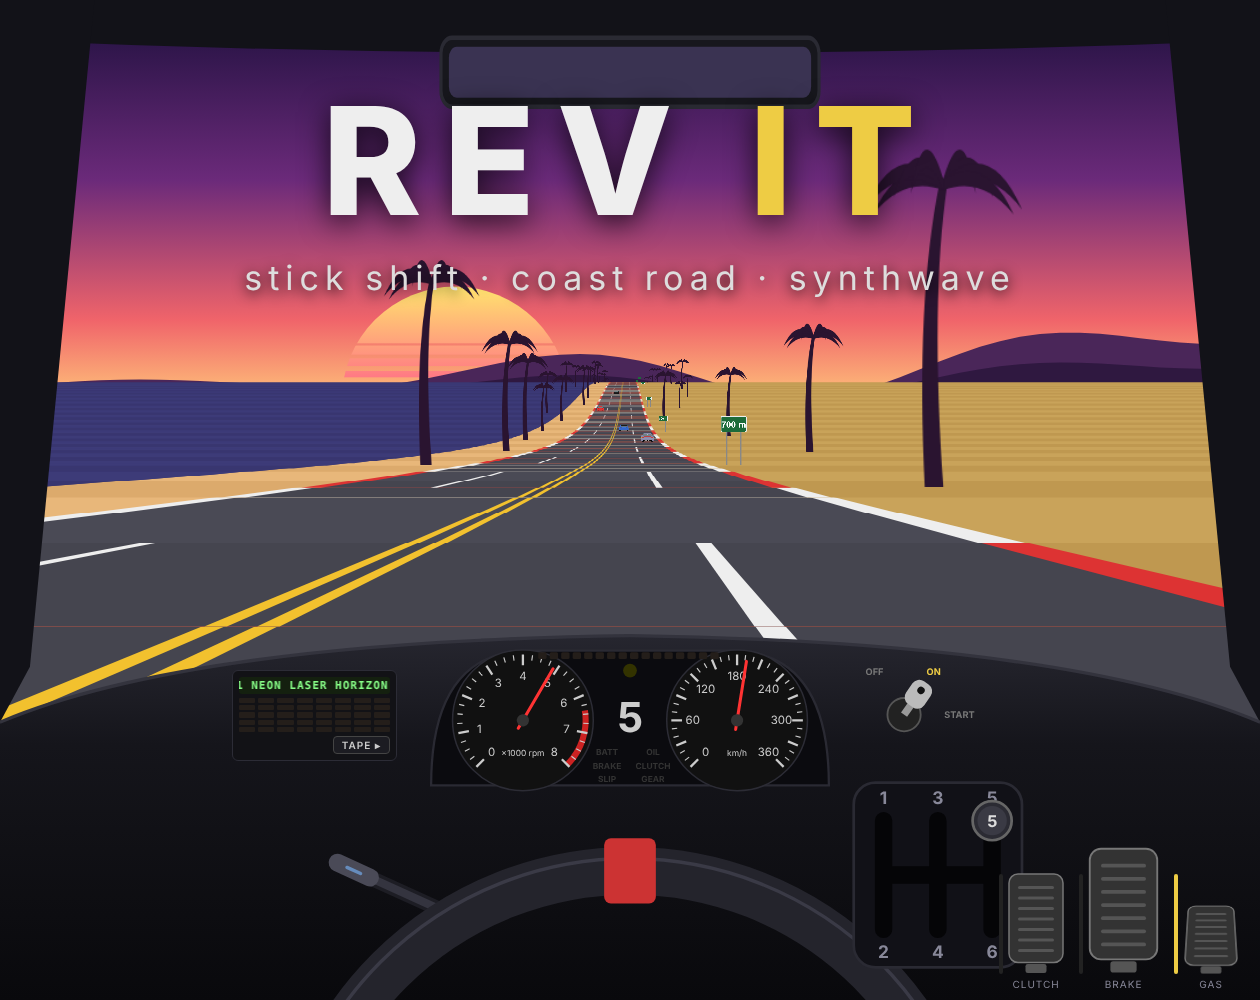
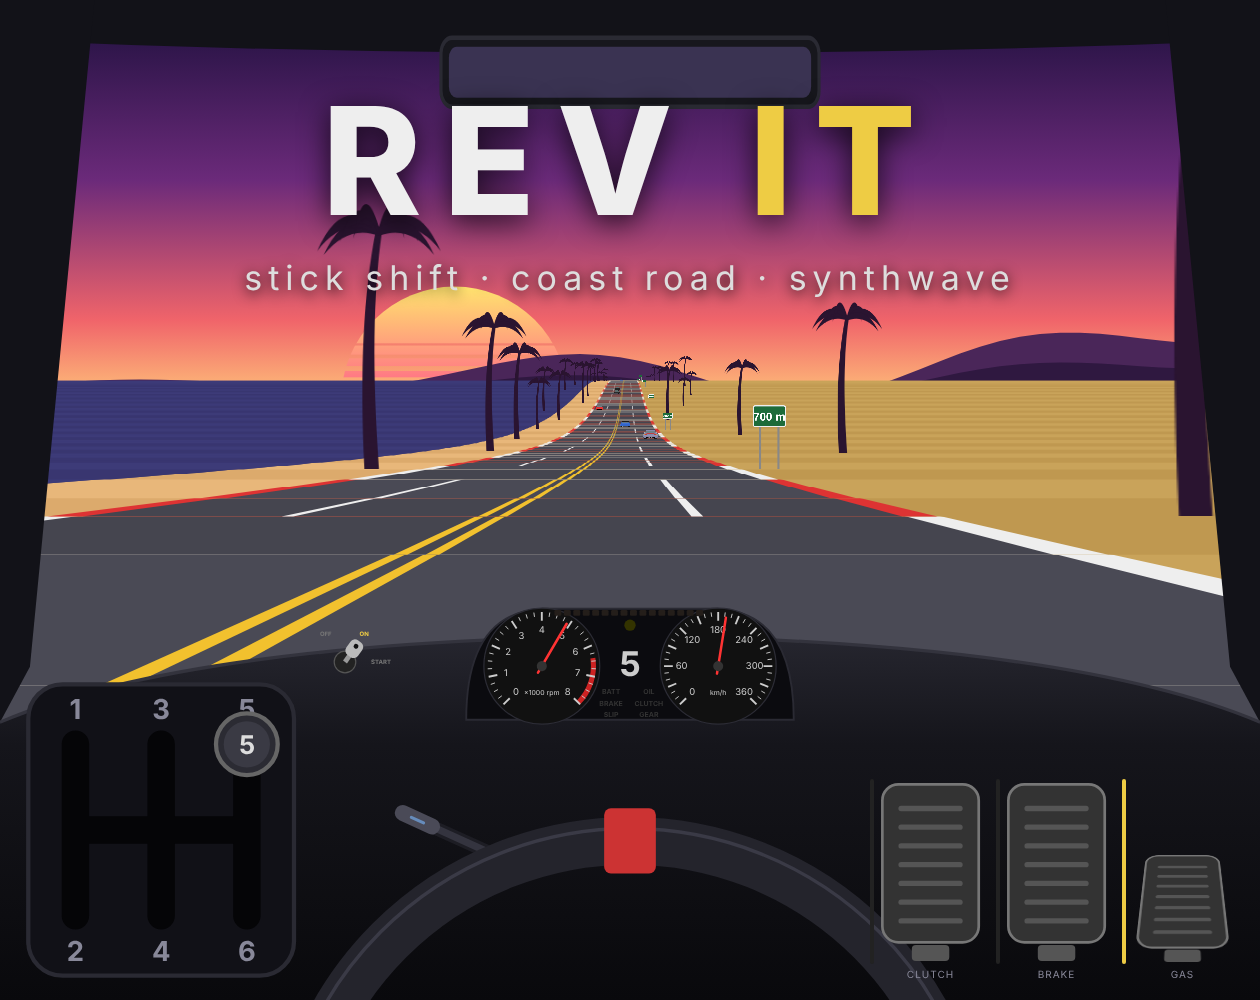
itch.io cover: the phone's cockpit, the lever on the left
The owner (23 Oct): the cover had the gearbox on the wrong side. It was shot
in the desktop's cockpit, the lever right of the wheel beside the pedals;
the phone's, as the owner plays it, has the lever on the left and the
pedals on the right. tools/store_shots.py now shoots the cover in it.

Only the cover was made again (the tool's cover code alone), so the
screenshots stay as uploaded.

Claude-Session: https://claude.ai/code/session_012p9s8NMc3hk8bFuutwLkYU

diff --git a/tools/store_shots.py b/tools/store_shots.py
@@ -8,7 +8,7 @@
 
 The first act only: no race, no fleet, no War Rig (CLAUDE.md: never a hint of the hidden race). The robot driver at
 the wheel: the coast road at speed on a desktop and on a phone held sideways, the garage after a run, HOW TO DRIVE;
-the cover is the road with the title over it, 1260 x 1000 and 630 x 500."""
+the cover is the road with the title over it, in the phone's cockpit, 1260 x 1000 and 630 x 500."""
 import sys
 from pathlib import Path
 sys.path.insert(0, str(Path(__file__).resolve().parent.parent / "tests"))
@@ -34,9 +34,10 @@ with sync_playwright() as p:
     pg.screenshot(path=f"{OUT}/2-garage.png")
     pg.keyboard.press("Escape"); pg.click('[data-show="help"]:visible'); pg.click('[data-tour="driving"]'); pg.keyboard.press("ArrowRight"); pg.wait_for_timeout(300)
     pg.screenshot(path=f"{OUT}/4-how-to-drive.png")
-    # the cover: a taller window, the road, the title over it
+    # the cover: a taller window, the road, the title over it, in the phone's cockpit: the lever on the left, as the owner
+    # plays it (the owner, 23 Oct: on the desktop's, right of the wheel, it was on the wrong side)
     cv = b.new_page(viewport={"width": 1260, "height": 1000}); cj = cv.evaluate
-    cv.goto(URL); cv.wait_for_timeout(300); setup(cj, False)
+    cv.goto(URL); cv.wait_for_timeout(300); setup(cj, True)
     cv.click('[data-play="distance"]'); cv.wait_for_timeout(300); cj("refreshCar(); 0"); drive(cv, cj, 16)
     cj("""(() => { const d = document.createElement('div'); d.innerHTML = '<b>REV <span>IT</span></b><i>stick shift · coast road · synthwave</i>';
       Object.assign(d.style, { position: 'fixed', left: 0, right: 0, top: '7%', textAlign: 'center', zIndex: 99, pointerEvents: 'none',
